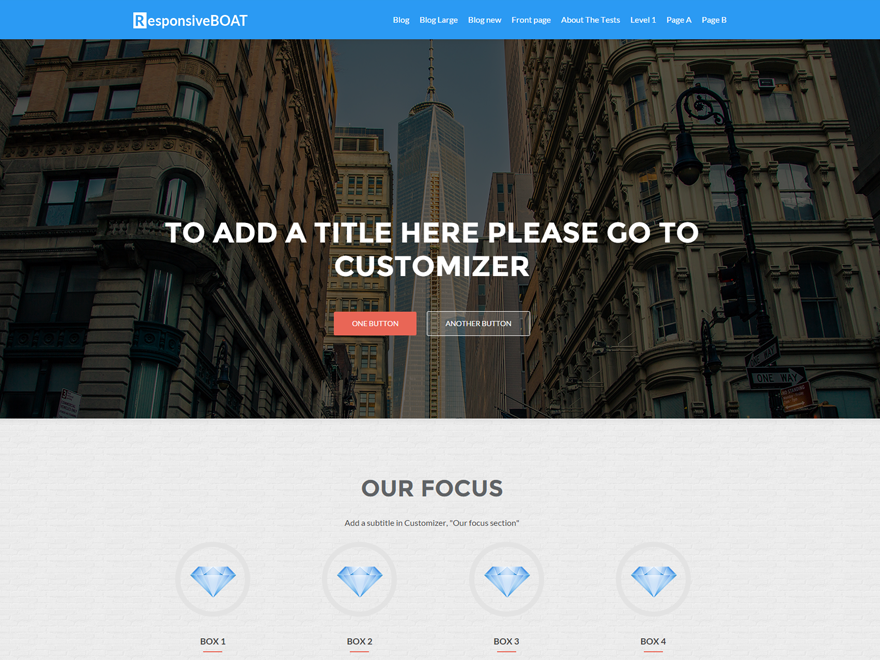
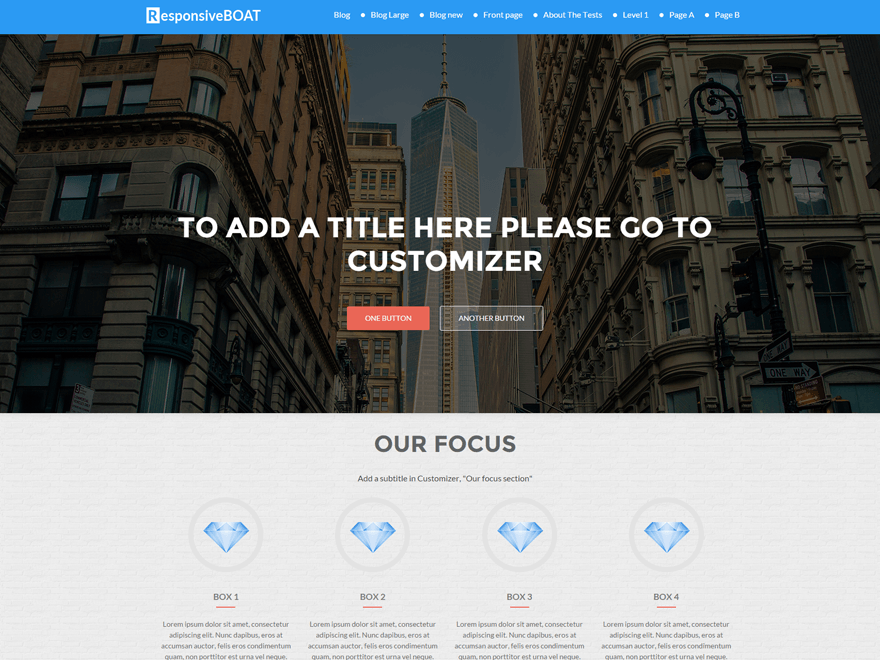
Modified files
+ added pre-loader
+ added patterns
+ background image source in readme
+ modified style.css

diff --git a/style.css b/style.css
@@ -36,6 +36,18 @@ General
     margin: 10px;
     border: medium none;
 }
+.section-header h2 {
+    padding-bottom: 10px;
+    line-height: 40px;
+    position: relative;
+    display: inline-block;
+    font-size: 45px;
+    text-transform: uppercase;
+}
+
+p {
+    font-family: 'Lato', sans-serif !important;
+}
 
 /*--------------------------------------------------------------
 Header
@@ -45,7 +57,7 @@ Header
 }
 
 .navbar-inverse .navbar-nav > li > a {
-    color: #FFF;
+    color: #FFF !important;
     padding: 0px;
     line-height: 35px;
 }
@@ -62,6 +74,39 @@ Header
     outline: medium none;
 }
 
+nav  li + li {
+    background:url('images/lists-dot.png') no-repeat 0px 14px;
+    padding-left: 20px
+}
+
+.status {
+    width: 200px;
+    height: 200px;
+    position: absolute;
+    left: 50%;
+    top: 50%;
+    background-image: url(images/load.gif) !important;
+    background-repeat: no-repeat;
+    background-position: center;
+    margin: -100px 0 0 -100px;
+}
+
+#loader .loader-icon {
+    background: url(images/load.gif) no-repeat center center !important;
+    background-color: #FFF;
+    margin: -22px -22px;
+    top: 50%;
+    left: 50%;
+    z-index: 10000;
+    position: fixed;
+    width: 44px;
+    height: 44px;
+    -webkit-background-size: 30px 30px;
+    background-size: 30px 30px;
+    border-radius: 5px;
+}
+
+
 /*--------------------------------------------------------------
 Content
 --------------------------------------------------------------*/
@@ -73,7 +118,7 @@ Content
 
 .about-us {
     background: rgba(45, 45, 45, 0.95) none repeat scroll 0% 0% !important;
-    color: #FFF;
+    color: #FFF !important;
     padding-bottom: 100px;
 }
 
@@ -90,12 +135,47 @@ Content
 .our-team {
     padding-bottom: 66px;
     padding-top: 100px;
-    background: url("images/cream_pixels.png") ;
+    background: url("images/subtle_dots.png") ;
 }
 
 .testimonial {
     background: #2b9af3 none repeat scroll 0% 0% !important;
     padding-bottom: 90px;
+}
+
+.latest-news {
+    padding-bottom: 66px;
+    padding-top: 100px;
+    background: url("images/brickwall.png") ;
+}
+
+.site-content {
+    background: url("images/brickwall.png") ;
+}
+
+.latest-news > .container {
+    background-color: white !important;
+    border: 1px solid rgb(203, 203, 203);
+    border-radius: 4px;
+    padding: 5px;
+}
+
+.contact-us {
+    background: rgba(80, 80, 80, 0.9) none repeat scroll 0% 0%;
+    padding-bottom: 95px;
+}
+
+.team-member:hover .details {
+    top: 0px;
+    background: #0E3351 none repeat scroll 0% 0% !important;
+    color: #FFF;
+    opacity: 1;
+}
+
+input[type="text"], input[type="email"], input[type="url"], input[type="password"], input[type="search"], textarea {
+    color: #5A5A5A ;
+    border: 1px solid rgba(0, 0, 0, 0.1);
+    border-radius: 0px;
 }
 
 .focus-box:nth-child(4n+1) .service-icon:hover {
@@ -136,6 +216,19 @@ Content
 
 .focus-box p {
 	color: #6E6E6E !important;
+       font-family: "Oxygen", sans-serif !important;
+}
+
+.focus-box h5 {
+    color: #7A7A7A !important;
+    position: relative;
+    display: inline-block;
+    text-transform: uppercase;
+    margin-bottom: 30px;
+    font-weight: bold;
+    font-size: 17px;
+    float: none;
+    width: auto;
 }
 
 .green-bg {
@@ -146,12 +239,113 @@ article.hentry {
     float: left;
     width: 100%;
     margin-bottom: 30px;
-    border: 1px solid #E7E7E7 !important;
+    border: 1px solid #DEDEDE;
     padding: 15px;
-    background-color: #F9F9F9 !important;
+    background-color: #FFF !important;
 }
+
+.large-container {
+    background-color: #FFF !important;
+    border-radius: 4px;
+    margin: 35px 0px;
+    position: relative;
+    width: 97%;
+    margin-top: 0;
+}
+
+#primary{
+    margin-top: -60px;
+}
+
+.listpost-content-wrap .entry-content p {
+    min-height: 90px;
+    margin-bottom: 0px;
+    font-family: "Oxygen", sans-serif !important;
+    margin-right: 10px;
+}
+
+.content-left-wrap {
+    padding-top: 60px;
+}
+
+.carousel-control.left {
+    margin-left: -35px;
+}
+
+.listpost-content-wrap-large {
+    position: absolute;
+    bottom: 0px;
+    background: rgba(255, 255, 255, 0.98) none repeat scroll 0% 0%;
+    min-height: 50px;
+    width: 100%;
+    padding: 20px 20px 0px;
+    border-top: 2px solid #FFF;
+    border: 1px solid #DEDEDE;
+}
+
+.our-team .row > div:nth-child(4n+1) .red-border-bottom::before {
+    background: #FC6D6D none repeat scroll 0% 0%;
+}
+
+.our-team .row > div:nth-child(4n+2) .red-border-bottom::before {
+    background: #FC6D6D none repeat scroll 0% 0%;
+}
+
+.our-team .row > div:nth-child(4n+3) .red-border-bottom::before {
+    background: #FC6D6D none repeat scroll 0% 0%;
+}
+
+.our-team .row > div:nth-child(4n+4) .red-border-bottom::before {
+    background: #FC6D6D none repeat scroll 0% 0%;
+}
+
+#carousel-homepage-latestnews .item .latestnews-box:nth-child(4n+1) .latestnews-title a::before {
+    background: #FC6D6D none repeat scroll 0% 0%;
+}
+
+#carousel-homepage-latestnews .item .latestnews-box:nth-child(4n+2) .latestnews-title a::before {
+    background: #FC6D6D none repeat scroll 0% 0%;
+}
+
+#carousel-homepage-latestnews .item .latestnews-box:nth-child(4n+3) .latestnews-title a::before {
+    background: #FC6D6D none repeat scroll 0% 0%;
+}
+
+#carousel-homepage-latestnews .item .latestnews-box:nth-child(4n+4) .latestnews-title a::before {
+    background: #FC6D6D none repeat scroll 0% 0%;
+}
+
+
 
 
 /*--------------------------------------------------------------
 Footer
 --------------------------------------------------------------*/
+#footer {
+    background: rgba(39, 39, 39, 0.95) none repeat scroll 0% 0%;
+}
+
+.entry-footer a {
+    color: #B36A6A !important;
+    font-style: italic;
+}
+
+
+/*--------------------------------------------------------------
+Responsive
+--------------------------------------------------------------*/
+
+@media screen and (max-width: 780px){
+    .navbar-inverse .navbar-nav > li > a {
+    color: #FFF !important;
+    padding: 0px;
+    line-height: 35px;
+    margin-left: 15px;
+    }
+}
+
+
+/*--------------------------------------------------------------
+Fonts
+--------------------------------------------------------------*/
+<link href='//fonts.googleapis.com/css?family=Oxygen:400,300,700' rel='stylesheet' type='text/css'>

diff --git a/README.md b/README.md
@@ -1,1 +1,3 @@
 # responsive-boat
+
+Background image: https://download.unsplash.com/31/8jLdwLg6TLKIQfJcZgDb_Freedom_5.jpg
